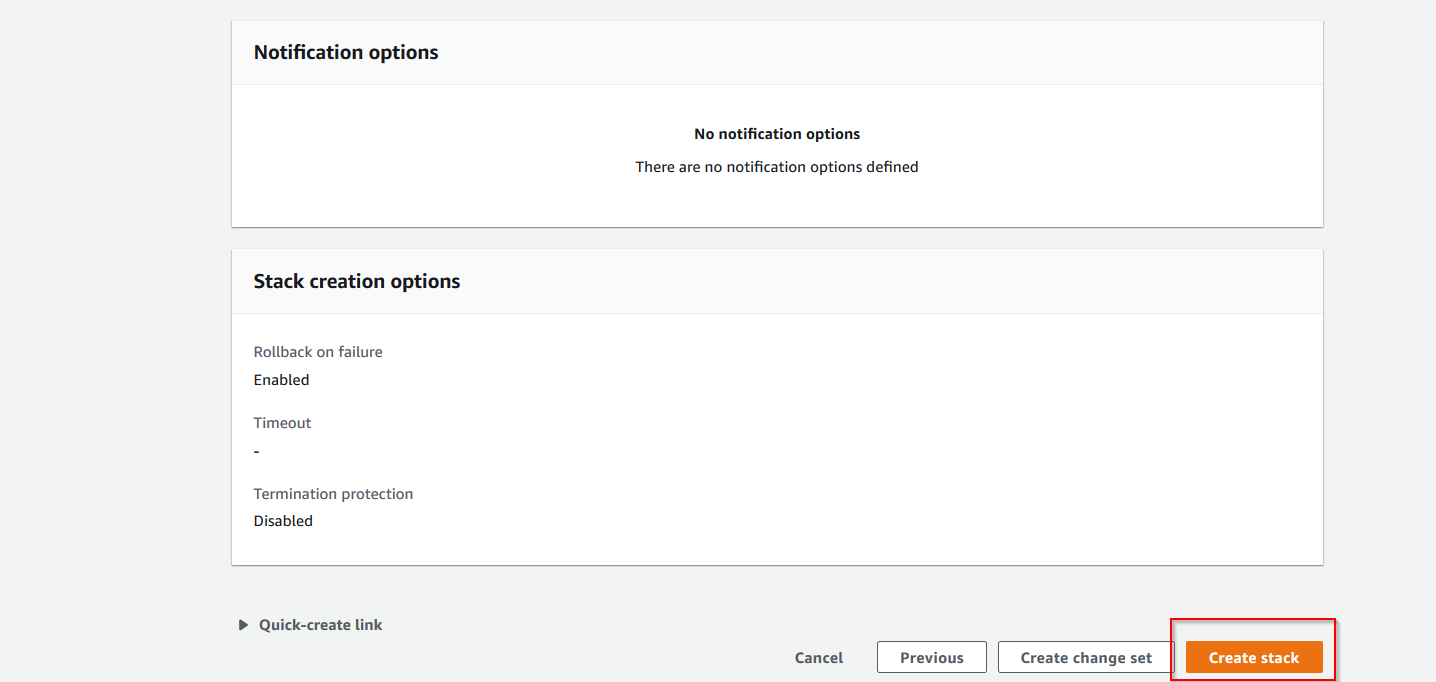
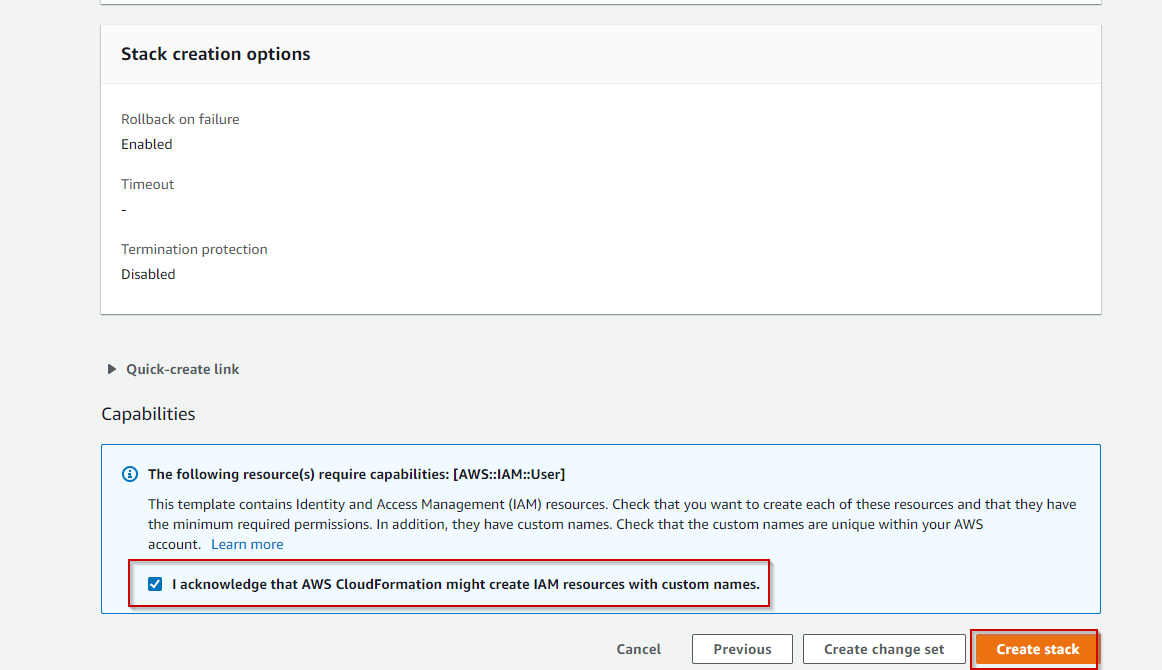
added instructions to the prerequisites

diff --git a/00-Prerequisites-Lab/README.md b/00-Prerequisites-Lab/README.md
@@ -43,7 +43,7 @@ connection.
 
 ![images](images/cloudformation-upload-4.png)
 
-6) In the summary page click on **Create Stack**.
+6) Make sure that you **acknowledge the creation of IAM resources** in the summary page and then click on **Create Stack**.
 
 ![images](images/cloudformation-upload-5.png)
 
